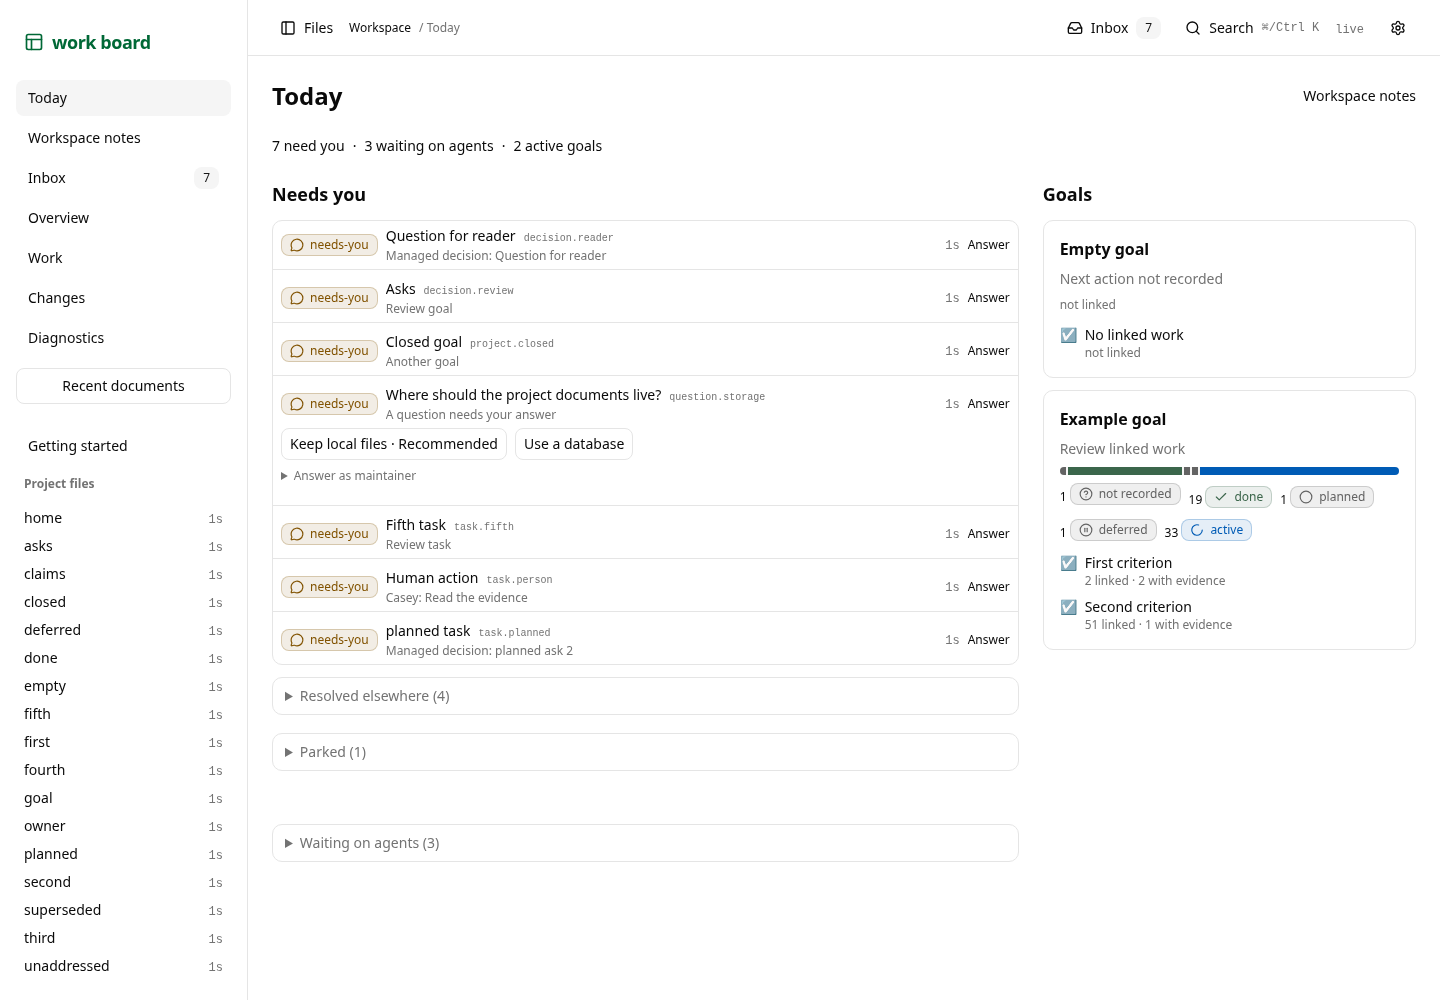
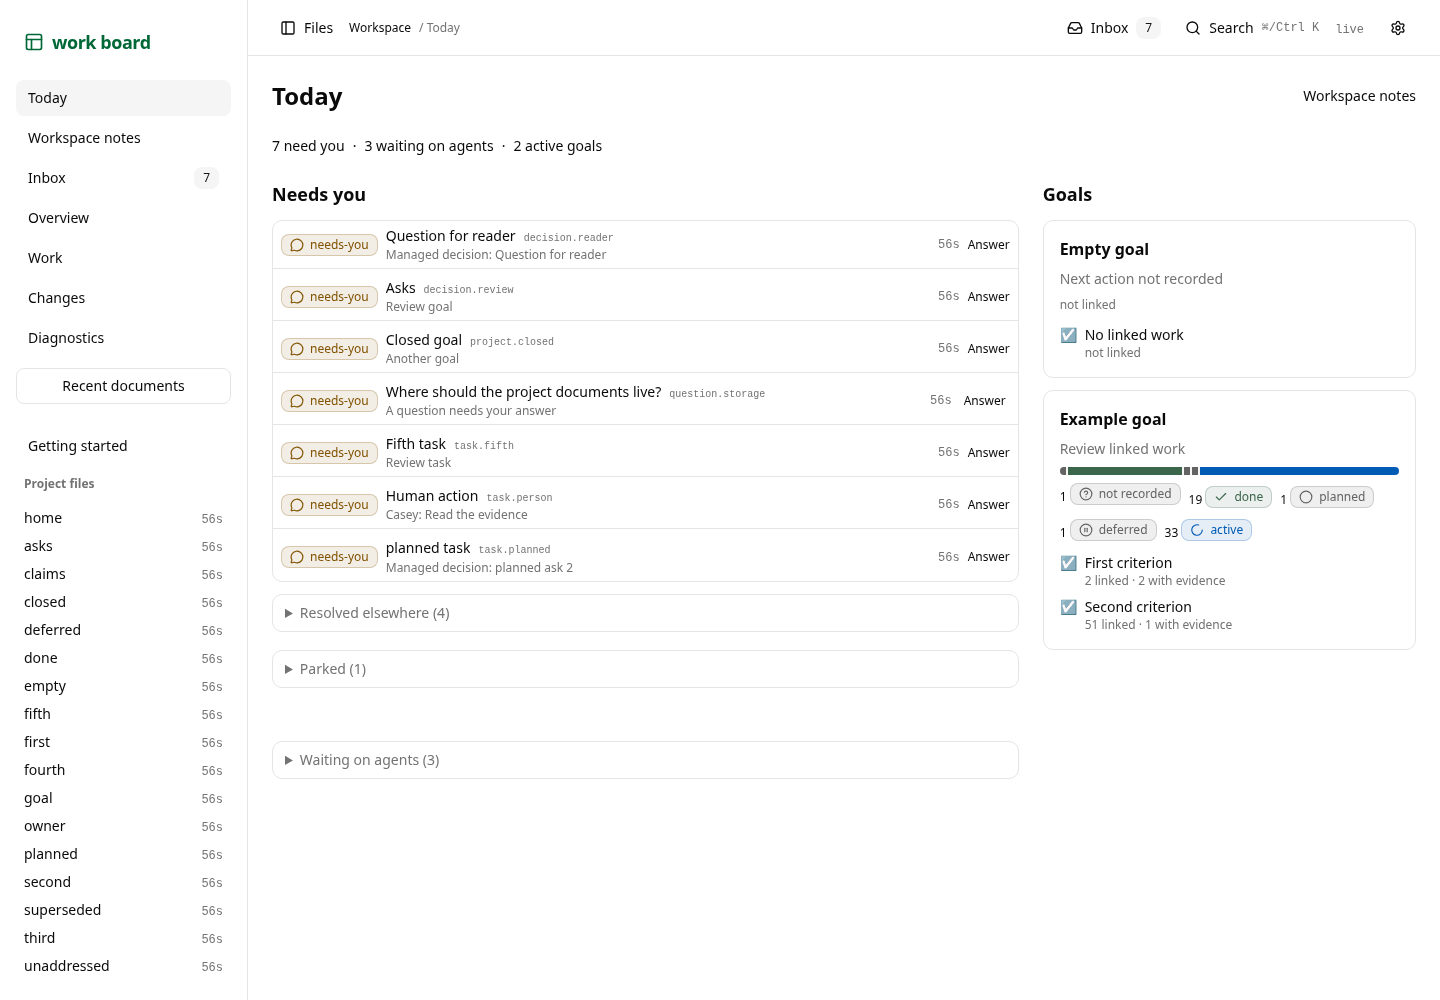
Keep Today ask entries compact with answer popovers

diff --git a/packages/work-board/src/client/react/TodayPage.dom.test.tsx b/packages/work-board/src/client/react/TodayPage.dom.test.tsx
@@ -66,7 +66,7 @@ it("opens Today with the exact human lane and one honest card per goal, retainin
 	}
 });
 
-it("records an inline option with the response command and removes its ask on query refresh", async () => {
+it("opens compact answer controls, records an option and removes its ask on query refresh", async () => {
 	const files = todayFixture();
 	const source = files["unaddressed.md"] ?? "";
 	const revision = revisionOf(source);
@@ -111,6 +111,19 @@ it("records an inline option with the response command and removes its ask on qu
 		await eventually(() =>
 			expect(view.container.querySelector("[aria-label='Options for question.storage'] button")?.textContent).toBe("Keep local files · Recommended"),
 		);
+		const entry = view.container.querySelector("[data-attention-id='question.storage']");
+		const trigger = entry?.querySelector<HTMLButtonElement>('button[aria-haspopup="dialog"]');
+		const dialog = entry?.querySelector<HTMLElement>('[role="dialog"]');
+		expect(dialog?.hidden).toBe(true);
+		expect(trigger?.getAttribute("aria-expanded")).toBe("false");
+		act(() => trigger?.click());
+		await eventually(() => expect(dialog?.hidden).toBe(false));
+		expect(document.activeElement?.textContent).toBe("Keep local files · Recommended");
+		act(() => document.dispatchEvent(new KeyboardEvent("keydown", { bubbles: true, key: "Escape" })));
+		expect(dialog?.hidden).toBe(true);
+		expect(document.activeElement).toBe(trigger);
+		act(() => trigger?.click());
+		expect(dialog?.hidden).toBe(false);
 		expect(view.container.querySelectorAll("[data-attention-id='question.storage']")).toHaveLength(1);
 		await act(async () => view.container.querySelector<HTMLButtonElement>("[aria-label='Options for question.storage'] button")?.click());
 		await eventually(() =>

diff --git a/packages/work-board/src/client/react/TodayOptions.tsx b/packages/work-board/src/client/react/TodayOptions.tsx
@@ -9,6 +9,7 @@ import { optionLabel } from "#browser/responses/cardContext.ts";
 import type { InboxProjection } from "#browser/views/schema.ts";
 import { documentQuery, navigationQuery, routeQueryOptions } from "#client/page/routeQuery.ts";
 import { Button } from "#client/react/components/ui/Button.tsx";
+import { Popover } from "#client/react/components/ui/Popover.tsx";
 import { authorLabel } from "#client/responses/authorLabel.ts";
 import { fileUrl } from "#files/url.ts";
 import { createResponse } from "./createResponse.ts";
@@ -20,13 +21,23 @@ export function TodayOptions({ api, item }: { readonly api: ShellApi; readonly i
 	const requestId = new URL(item.href, "http://127.0.0.1").searchParams.get("request");
 	const request = data?.requests.find((entry) => entry.id === requestId && entry.open);
 	return data
+		&& !item.problem
 		&& request?.preview
 		&& !request.unavailable
 		&& !request.promptUnavailable
 		&& request.prompts?.length === 1
 		&& request.prompts[0]?.mode === "one" ? (
-		<InlineOptions api={api} document={data} key={request.preview.reviewedRevision} request={request} />
-	) : null;
+		<Popover label={`Answer ${item.title}`} trigger="Answer" triggerClassName="h-8 w-auto px-1 text-xs">
+			<a className="mb-3 block text-xs" href={item.href}>
+				Open full question
+			</a>
+			<InlineOptions api={api} document={data} key={request.preview.reviewedRevision} request={request} />
+		</Popover>
+	) : (
+		<a aria-label={`Answer ${item.title}`} className="shrink-0 text-xs" href={item.href}>
+			Answer
+		</a>
+	);
 }
 
 function InlineOptions({ api, document: data, request }: { readonly api: ShellApi; readonly document: Document; readonly request: DocumentRequest }) {

diff --git a/packages/work-board/src/client/react/TodayNeeds.tsx b/packages/work-board/src/client/react/TodayNeeds.tsx
@@ -12,9 +12,8 @@ export function TodayNeeds({ api, data }: { readonly api: ShellApi; readonly dat
 	return data.you.length > 0 ? (
 		<ul aria-label="Needs you" className="m-0 list-none divide-y rounded-lg border border-border p-0">
 			{data.you.map((item) => (
-				<li data-attention-id={item.id} key={`${item.file}:${item.href}`}>
-					<TodayRow item={item} />
-					{!item.problem && <TodayOptions api={api} item={item} />}
+				<li className="h-12 max-h-12" data-attention-id={item.id} key={`${item.file}:${item.href}`}>
+					<TodayRow api={api} item={item} />
 				</li>
 			))}
 		</ul>
@@ -44,9 +43,9 @@ export function TodayGroup({ items, title }: { readonly items: readonly Item[]; 
 	);
 }
 
-function TodayRow({ item }: { readonly item: Item }) {
+function TodayRow({ api, item }: { readonly api: ShellApi; readonly item: Item }) {
 	return (
-		<div className="today-row flex h-12 max-h-12 min-w-0 items-center gap-2 px-2" data-attention-row>
+		<div className="today-row flex h-full min-w-0 items-center gap-2 px-2" data-attention-row>
 			<StatusChip
 				aria-label="Needs you"
 				className="shrink-0 max-sm:size-6 max-sm:justify-center max-sm:gap-0 max-sm:px-1 max-sm:text-[0px] max-sm:[&_svg]:shrink-0"
@@ -70,9 +69,7 @@ function TodayRow({ item }: { readonly item: Item }) {
 			<span className="shrink-0 text-[10px] text-muted-foreground tabular-nums">
 				{item.modified === undefined ? "Age ?" : <Age modified={item.modified} short />}
 			</span>
-			<a aria-label={`Answer ${item.title}`} className="shrink-0 text-xs" href={item.href}>
-				Answer
-			</a>
+			<TodayOptions api={api} item={item} />
 		</div>
 	);
 }

diff --git a/packages/work-board/src/client/react/components/ui/Popover.tsx b/packages/work-board/src/client/react/components/ui/Popover.tsx
@@ -8,12 +8,14 @@ export function Popover({
 	children,
 	className,
 	triggerId,
+	triggerClassName,
 }: {
 	readonly label: string;
 	readonly trigger: ReactNode;
 	readonly children: ReactNode;
 	readonly className?: string;
 	readonly triggerId?: string;
+	readonly triggerClassName?: string;
 }) {
 	const id = useId();
 	const [open, setOpen] = useState(false);
@@ -58,6 +60,7 @@ export function Popover({
 				aria-expanded={open}
 				aria-haspopup="dialog"
 				aria-label={label}
+				className={triggerClassName}
 				id={triggerId}
 				onClick={() => setOpen(!open)}
 				ref={buttonRef}

diff --git a/packages/work-board/README.md b/packages/work-board/README.md
@@ -48,7 +48,7 @@ The work has three parts: choose a workspace once, author useful files per featu
 work-board ./project-notes --home plan.md
 ```
 
-This serves the existing folder on `http://127.0.0.1:4747`. The first screen at `/` is **Today**: a linked summary, **Needs you**, **Goals** and collapsed **Waiting on agents**. Human asks come from the same lane as Inbox; agent audiences stay in their own collapsed list. Questions with one-choice options offer buttons that record an answer against the current reviewed context. Goal cards show linked-item status counts and criterion links with recorded evidence counts, without a completion percentage. These counts describe recorded source, not verified success. The optional home file remains a heading board through **Workspace notes**; other files remain documents. An empty Today links to getting-started guidance. **Getting started** remains available at `/_board/start`, with copyable project, investigation and agent-result templates. Save them through your editor or agent tool; the reader does not create files.
+This serves the existing folder on `http://127.0.0.1:4747`. The first screen at `/` is **Today**: a linked summary, **Needs you**, **Goals** and collapsed **Waiting on agents**. Human asks come from the same lane as Inbox; agent audiences stay in their own collapsed list. Needs-you entries stay within 48px. For questions with one-choice options, Answer opens a popover with buttons that record an answer against the current reviewed context. Goal cards show linked-item status counts and criterion links with recorded evidence counts, without a completion percentage. These counts describe recorded source, not verified success. The optional home file remains a heading board through **Workspace notes**; other files remain documents. An empty Today links to getting-started guidance. **Getting started** remains available at `/_board/start`, with copyable project, investigation and agent-result templates. Save them through your editor or agent tool; the reader does not create files.
 
 A heading board uses `#` for its title, text before the first `##` for its intro, `##` for sections and `###` for cards. A section without cards shows its text. A `---` after the last heading starts the footer; a divider inside a card before another heading stays in that card. Code spans, reference links, footnotes and `<details>` can stay in the Markdown body. Leave a blank line after `<summary>` and before `</details>` when its content is Markdown.
 

diff --git a/packages/work-board/changes/today.md b/packages/work-board/changes/today.md
@@ -1,3 +1,3 @@
 ### Changed
 
-- Open on Today with human asks, inline option answers, goal status and evidence counts, and collapsed agent work. Keep configured home Markdown reachable as Workspace notes.
+- Open on Today with human asks, compact ask rows with option answers in popovers, goal status and evidence counts, and collapsed agent work. Keep configured home Markdown reachable as Workspace notes.
